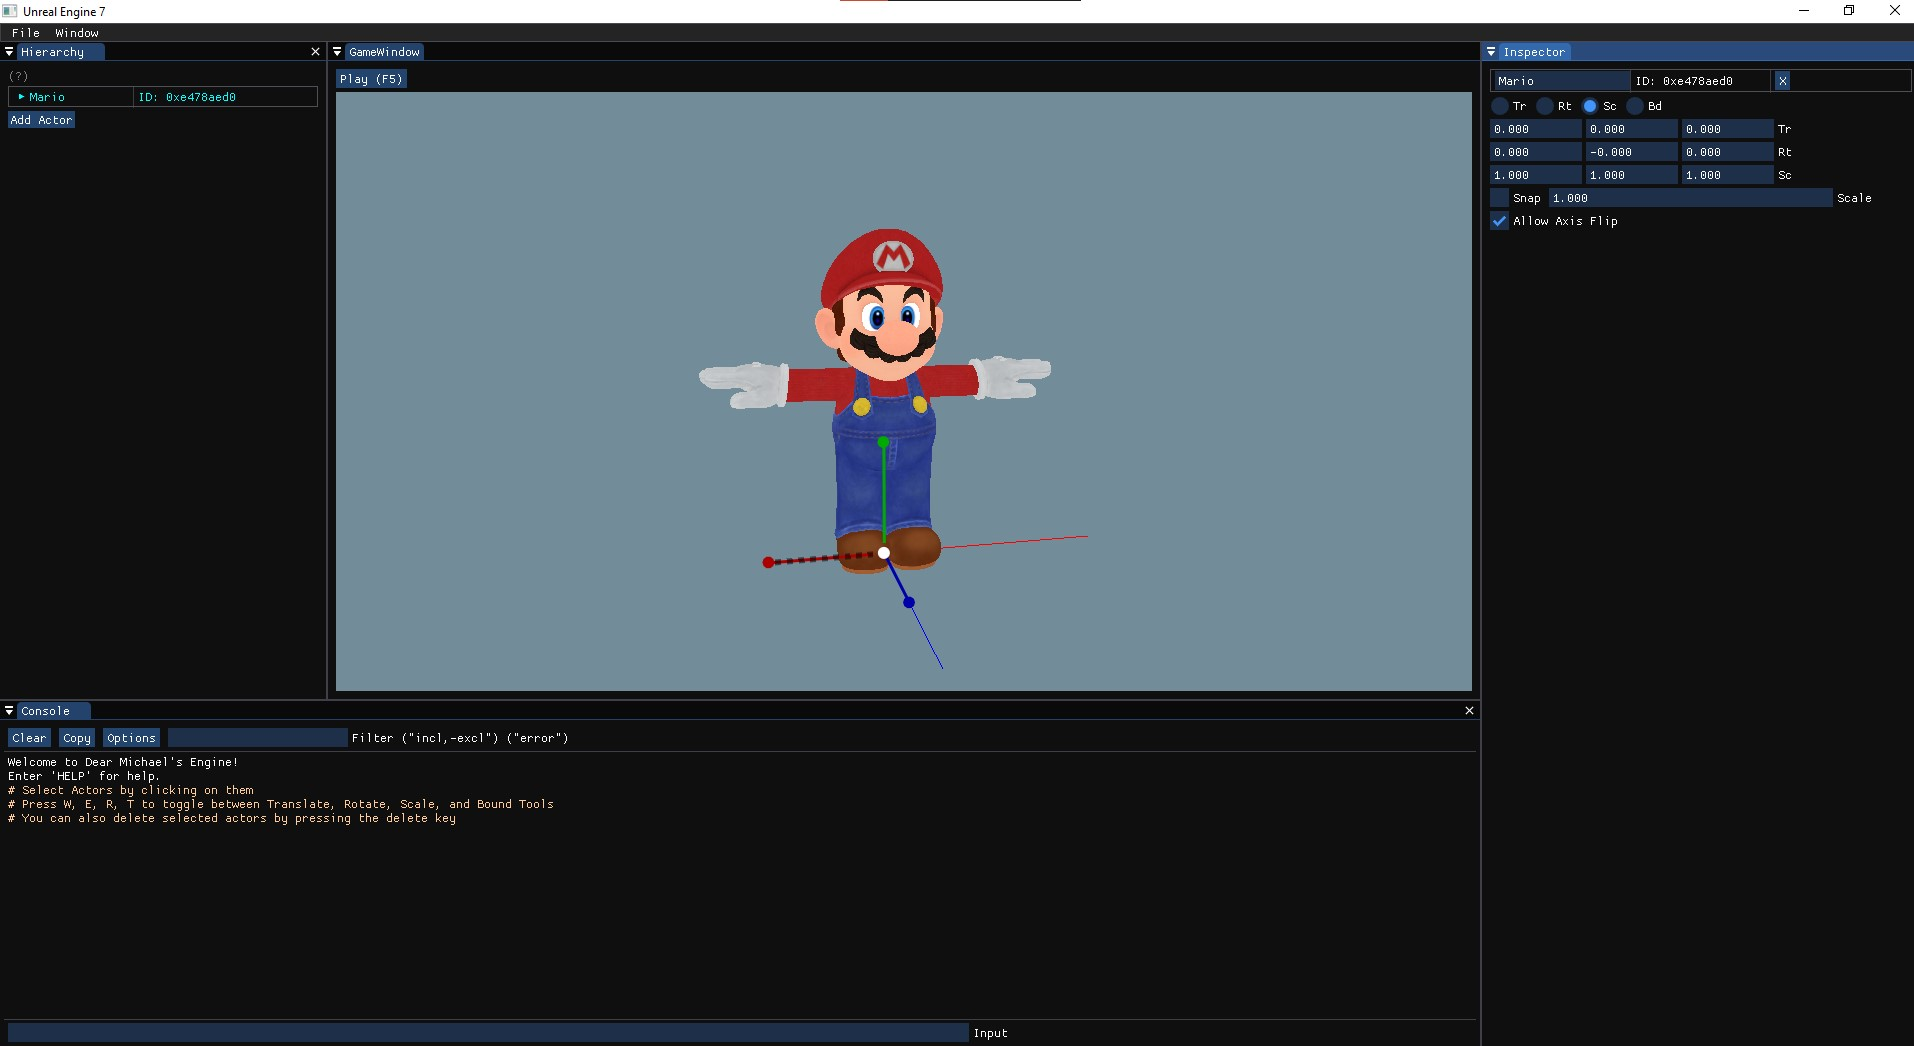
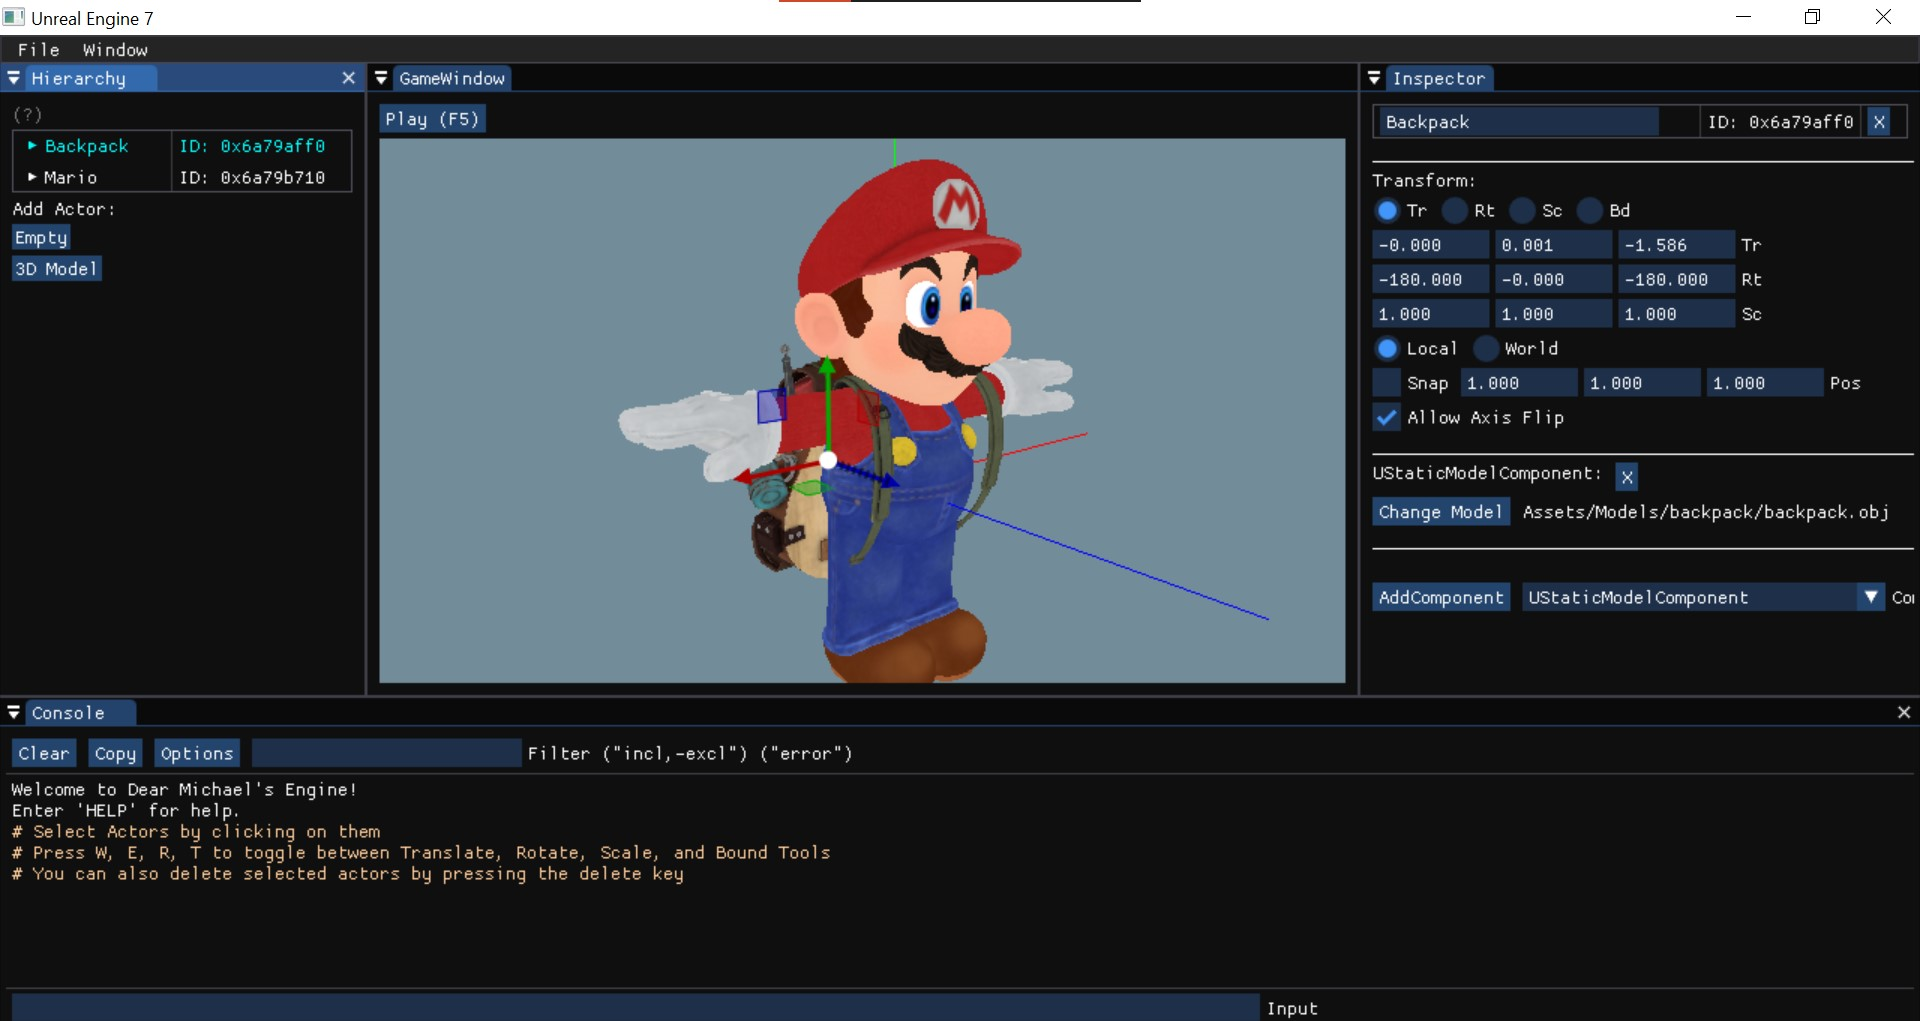
Component data is now serialized

diff --git a/TryTryAgain/Source/Panels/Hierarchy.cpp b/TryTryAgain/Source/Panels/Hierarchy.cpp
@@ -8,6 +8,7 @@
 #include "Elements/Game.h"
 #include "Structs/FString.h"
 #include "imgui_stdlib.h"
+#include <Components/UStaticModelComponent.h>
 
 namespace Panels
 {
@@ -93,13 +94,26 @@ namespace Panels
 
 	void Hierarchy::AddActor()
 	{
-        if (ImGui::Button("Add Actor"))
+        ImGui::Text("Add Actor:");
+        if (ImGui::Button("Empty"))
         {
             int id = MyGame->Actors.size();
             MyGame->Actors.push_back(std::make_shared<AActor>());
             MyGame->Picked = MyGame->Actors.back().get();
             MyGame->Picked->name = FString("Actor (%i)", id).Text;
             MyGame->Picked->UpdateMatrix();
+        }
+        if (ImGui::Button("3D Model"))
+        {
+            int id = MyGame->Actors.size();
+            MyGame->Actors.push_back(std::make_shared<AActor>());
+            MyGame->Picked = MyGame->Actors.back().get();
+            MyGame->Picked->name = FString("Actor (%i)", id).Text;
+            MyGame->Picked->UpdateMatrix();
+
+            auto& a = MyGame->Actors.back();
+            a->AddComponent<UStaticModelComponent>();
+            a->Init();
         }
 	}
 

diff --git a/TryTryAgain/Source/Components/UStaticModelComponent.h b/TryTryAgain/Source/Components/UStaticModelComponent.h
@@ -13,6 +13,13 @@ using namespace std;
 class UStaticModelComponent : public UComponent
 {
 
+	enum class SHADER {
+		FRAG = 0,
+		VERT = 1,
+		GEOM = 2,
+		SHORT_NAME = 3
+	};
+
 public:
 
 	std::shared_ptr<rm::Model> Model;
@@ -28,4 +35,16 @@ public:
 
 	bool bDraw = true;
 
+	template <class Archive>
+	void serialize(Archive& ar)
+	{
+		ar(cereal::make_nvp("UComponent", cereal::virtual_base_class<UComponent>(this)), CEREAL_NVP(ShaderPaths), CEREAL_NVP(ModelPath));
+	}
+
+	std::string ModelPath = "Assets/Models/mario/mario-tex.obj";
+
+private:
+	std::string ShaderPaths[4] = { "Assets/Shaders/LoadModel.vert", "Assets/Shaders/LoadModel.frag", "", "LoadModel" };
 };
+
+CEREAL_REGISTER_TYPE(UStaticModelComponent);

diff --git a/TryTryAgain/Source/Panels/Inspector.cpp b/TryTryAgain/Source/Panels/Inspector.cpp
@@ -61,8 +61,6 @@ namespace Panels
 					if (test == 0 && mc == nullptr)
 					{
 						mc = actor->AddComponent<UStaticModelComponent>();
-						mc->Shader = rm::ResourceManager::LoadShader("Assets/Shaders/LoadModel.vert", "Assets/Shaders/LoadModel.frag", nullptr, "LoadModel");
-						mc->Model = rm::ResourceManager::LoadModel("Assets/Models/mario/mario-tex.obj", false);
 					}
 				}
 				ImGui::SameLine();
@@ -279,6 +277,7 @@ namespace Panels
 					filePathName = StringUtil::ReplaceAll(filePathName, "\\", "/");
 
 					editingMC->Model = rm::ResourceManager::LoadModel(filePathName.c_str(), false);
+					editingMC->ModelPath = filePathName;
 					editingMC = nullptr;
 				}
 			}

diff --git a/TryTryAgain/Source/Components/UStaticModelComponent.cpp b/TryTryAgain/Source/Components/UStaticModelComponent.cpp
@@ -10,11 +10,20 @@
 
 UStaticModelComponent::UStaticModelComponent(std::shared_ptr<AActor> owner) : UComponent(owner)
 {
-	this->Shader = rm::ResourceManager::LoadShader("Assets/Shaders/LoadModel.vert", "Assets/Shaders/LoadModel.frag", nullptr, "LoadModel");
+	Init();
 }
 
 void UStaticModelComponent::Init()
 {
+	if (this->Shader == nullptr)
+	{
+		this->Shader = rm::ResourceManager::LoadShader(ShaderPaths[0].c_str(), ShaderPaths[1].c_str(), 
+			nullptr, ShaderPaths[3].c_str());
+	}
+	if (this->Model == nullptr)
+	{
+		this->Model = rm::ResourceManager::LoadModel(ModelPath, false);
+	}
 }
 
 void UStaticModelComponent::Draw(rm::Shader* shader)

diff --git a/TryTryAgain/Source/Elements/Game.cpp b/TryTryAgain/Source/Elements/Game.cpp
@@ -143,6 +143,7 @@ void Game::LoadScene(const char* path)
 	for (auto& a : Actors)
 	{
 		a->UpdateMatrix();
+		a->Init();
 	}
 }
 
@@ -218,10 +219,6 @@ void Game::ProcessInputEditor()
 		{
 			Pick();
 		}
-	}
-
-	if (this->MouseButtonsUp[SDL_BUTTON_LEFT])
-	{
 		usingPickingShader = true;
 	}
 	

diff --git a/TryTryAgain/Source/Objects/UObject.h b/TryTryAgain/Source/Objects/UObject.h
@@ -1,6 +1,8 @@
 #pragma once
 #include <cereal/types/polymorphic.hpp>
 #include <cereal/archives/json.hpp>
+#include <cereal/types/memory.hpp> // smart pointers
+#include <cereal/types/vector.hpp> // std::vector
 
 class UObject
 {

diff --git a/TryTryAgain/Source/Actors/AActor.h b/TryTryAgain/Source/Actors/AActor.h
@@ -50,7 +50,7 @@ public:
 	template <class Archive>
 	void serialize(Archive& ar)
 	{
-		ar(CEREAL_NVP(name), CEREAL_NVP(transform));
+		ar(CEREAL_NVP(name), CEREAL_NVP(transform), CEREAL_NVP(components));
 	}
 
 protected:

diff --git a/README.md b/README.md
@@ -67,6 +67,8 @@ To install x64 libraries, run:
 - [X] Static Mesh Component
 - [X] Saving/Loading Scenes
 - [X] Model Loader and Rendering Refactor - obj files (mtl holds relative paths to textures)
-- [ ] Inspector / Hierarchy Improvements
-- [ ] Physics System Integration
+- [X] Inspector / Hierarchy Improvements - Add/Remove Components / Provide a simple component editor for the Model Component
+- [X] Serialize Components - It is now possible to go pure Actor-Component and move more tools into the runtime!
+- [ ] Start planning a simple game to help identify missing features
 - [ ] Build Configuration to compile and build without editor tools
+- [ ] Physics System Integration
